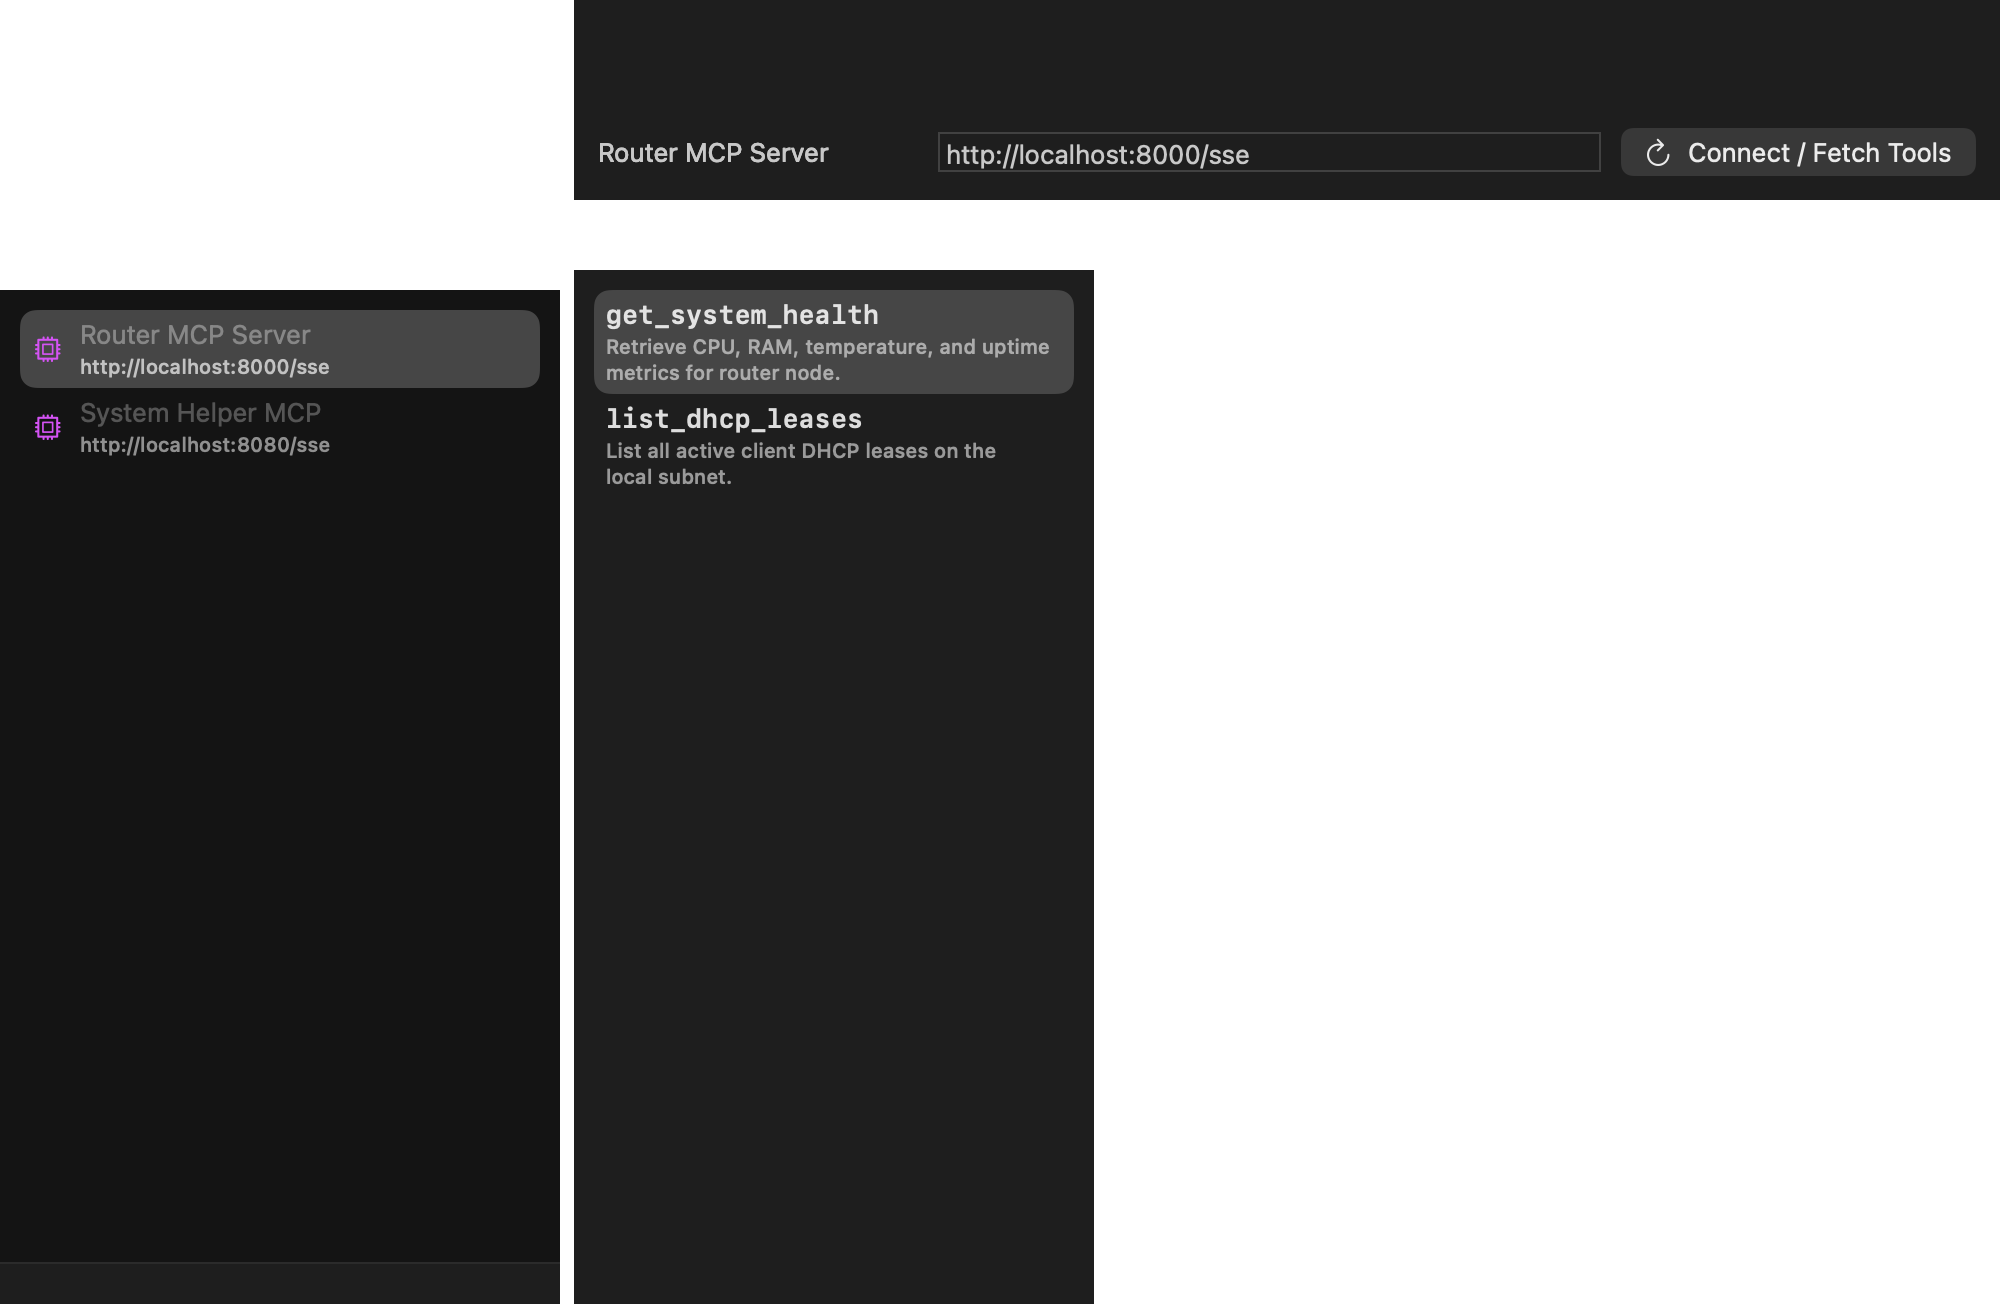
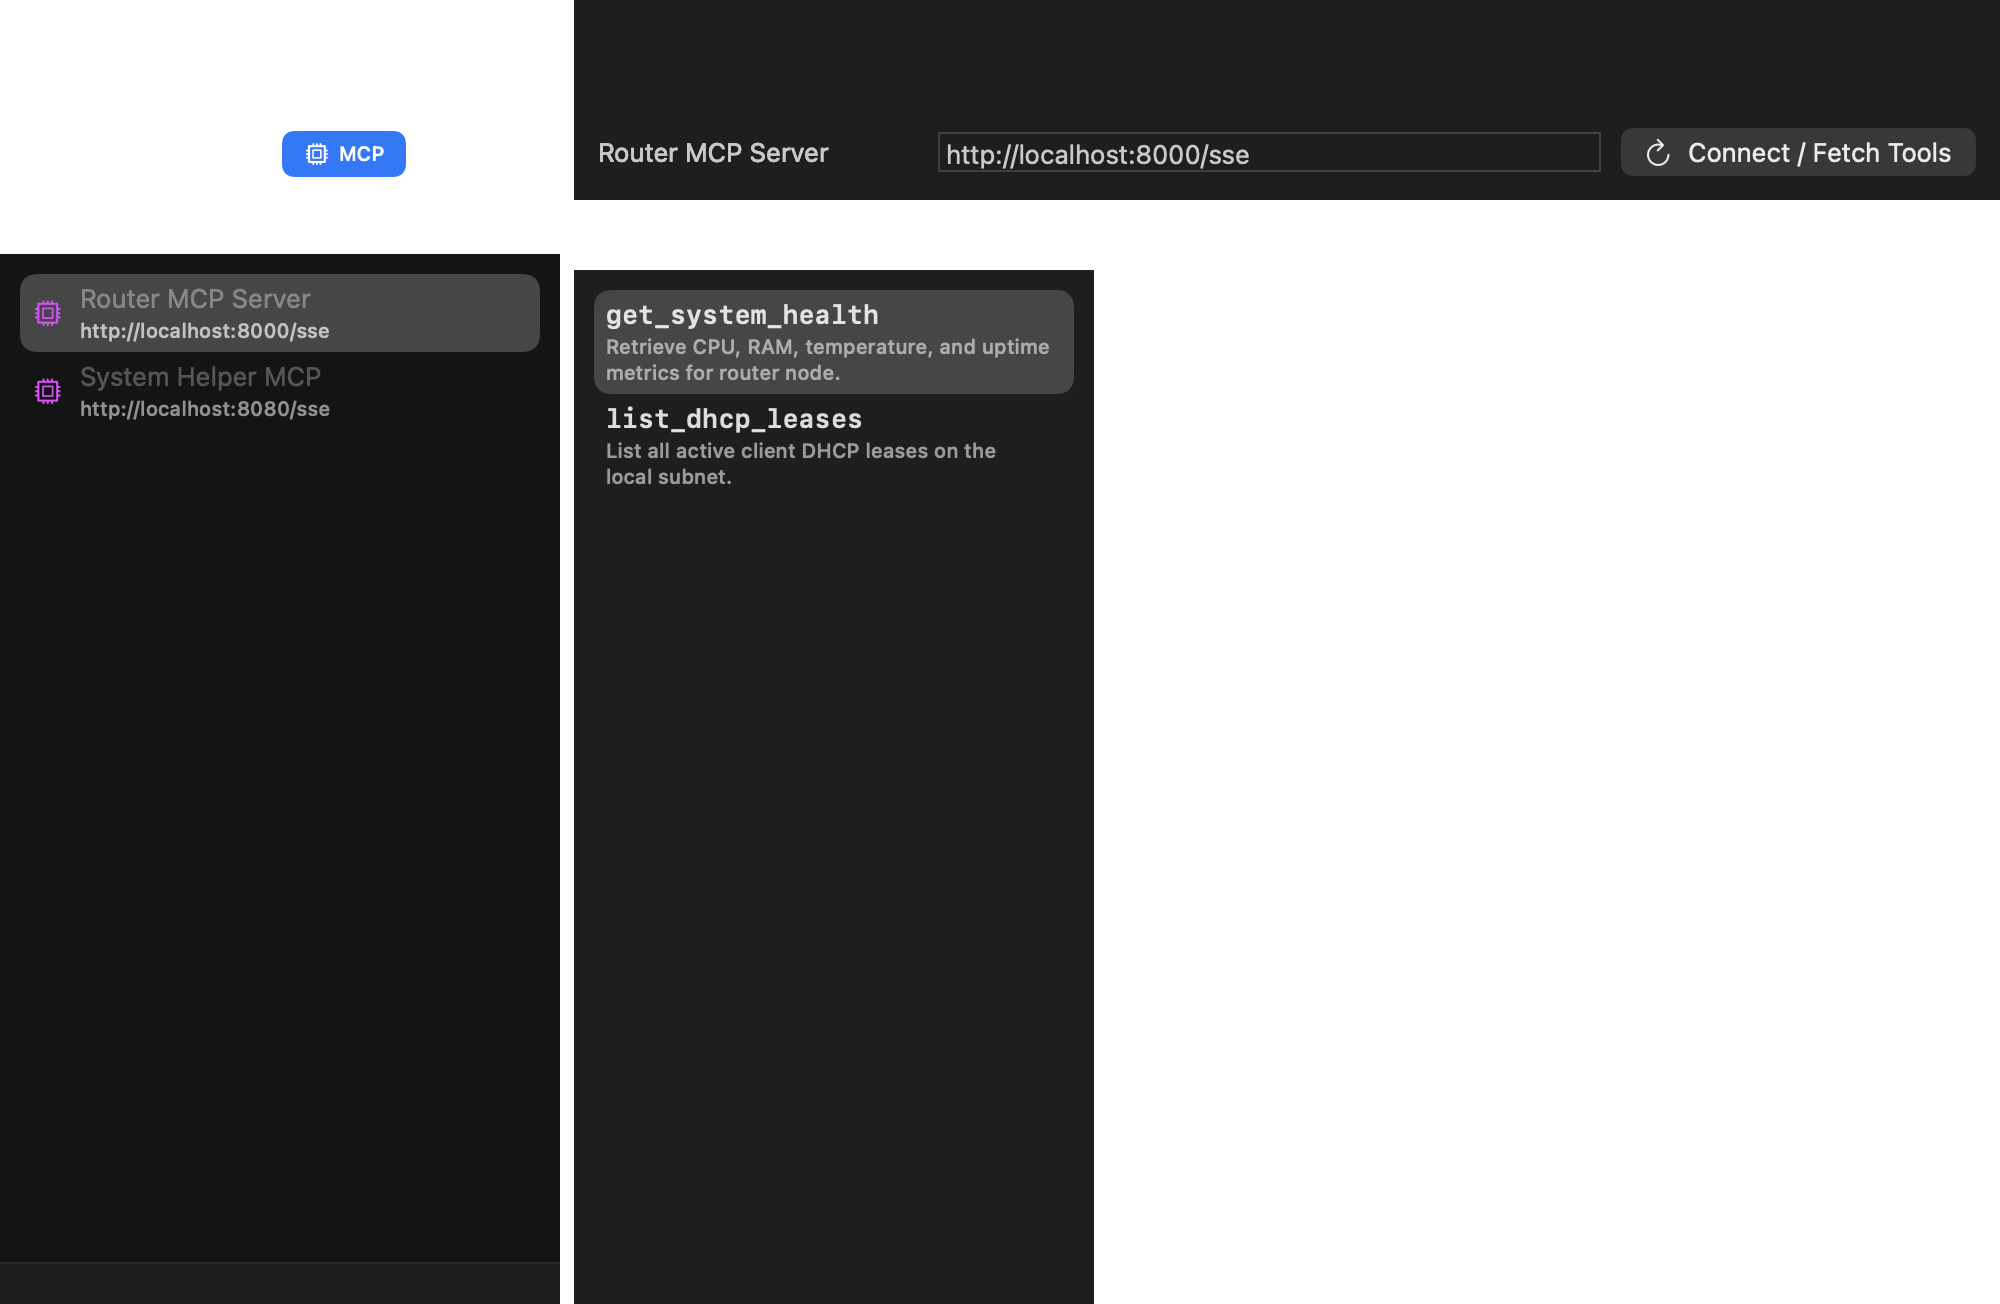
Replace static segmented tab picker with responsive adaptive tab bar

Changed region(s): [[0.0, 0.184, 0.279, 0.3681], [0.124, 0.092, 0.217, 0.1534]]

diff --git a/Sources/Post/Views/SidebarView.swift b/Sources/Post/Views/SidebarView.swift
@@ -8,13 +8,7 @@ struct SidebarView: View {
     var body: some View {
         VStack(spacing: 0) {
             // Tab Picker Header
-            Picker("Tab", selection: $store.activeTab) {
-                ForEach(PostStore.SidebarTab.allCases) { tab in
-                    Label(tab.rawValue, systemImage: tab.iconName).tag(tab)
-                }
-            }
-            .pickerStyle(.segmented)
-            .padding(10)
+            responsiveTabPicker
 
             // Search Bar
             FilterField(
@@ -210,6 +204,45 @@ struct SidebarView: View {
             .padding(10)
             .background(.bar)
         }
+    }
+
+    private var responsiveTabPicker: some View {
+        GeometryReader { proxy in
+            let isCompact = proxy.size.width < 290
+            let isUltraCompact = proxy.size.width < 230
+            HStack(spacing: 2) {
+                ForEach(PostStore.SidebarTab.allCases) { tab in
+                    let isSelected = store.activeTab == tab
+                    Button(action: {
+                        withAnimation(.easeInOut(duration: 0.12)) {
+                            store.activeTab = tab
+                        }
+                    }) {
+                        HStack(spacing: 4) {
+                            Image(systemName: tab.iconName)
+                                .font(.system(size: 11, weight: .medium))
+                            if !isUltraCompact {
+                                Text(isCompact ? tab.shortName : tab.rawValue)
+                                    .font(.caption2.weight(.medium))
+                                    .lineLimit(1)
+                            }
+                        }
+                        .padding(.vertical, 5)
+                        .padding(.horizontal, isUltraCompact ? 4 : (isCompact ? 4 : 6))
+                        .frame(maxWidth: .infinity)
+                        .background(isSelected ? Color.accentColor : Color.clear, in: RoundedRectangle(cornerRadius: 6))
+                        .foregroundStyle(isSelected ? Color.white : Color.primary)
+                    }
+                    .focusable(false)
+                    .buttonStyle(.plain)
+                    .help(tab.rawValue)
+                }
+            }
+            .padding(3)
+            .background(Color.secondary.opacity(0.12), in: RoundedRectangle(cornerRadius: 8))
+        }
+        .frame(height: 30)
+        .padding(10)
     }
 
     private var curlImportSheet: some View {

diff --git a/Sources/Post/Storage/PostStore.swift b/Sources/Post/Storage/PostStore.swift
@@ -28,6 +28,14 @@ public final class PostStore: ObservableObject {
         case history = "History"
 
         public var id: String { rawValue }
+        public var shortName: String {
+            switch self {
+            case .requests: return "Requests"
+            case .webhooks: return "Webhooks"
+            case .mcp: return "MCP"
+            case .history: return "History"
+            }
+        }
         public var iconName: String {
             switch self {
             case .requests: return "network"
